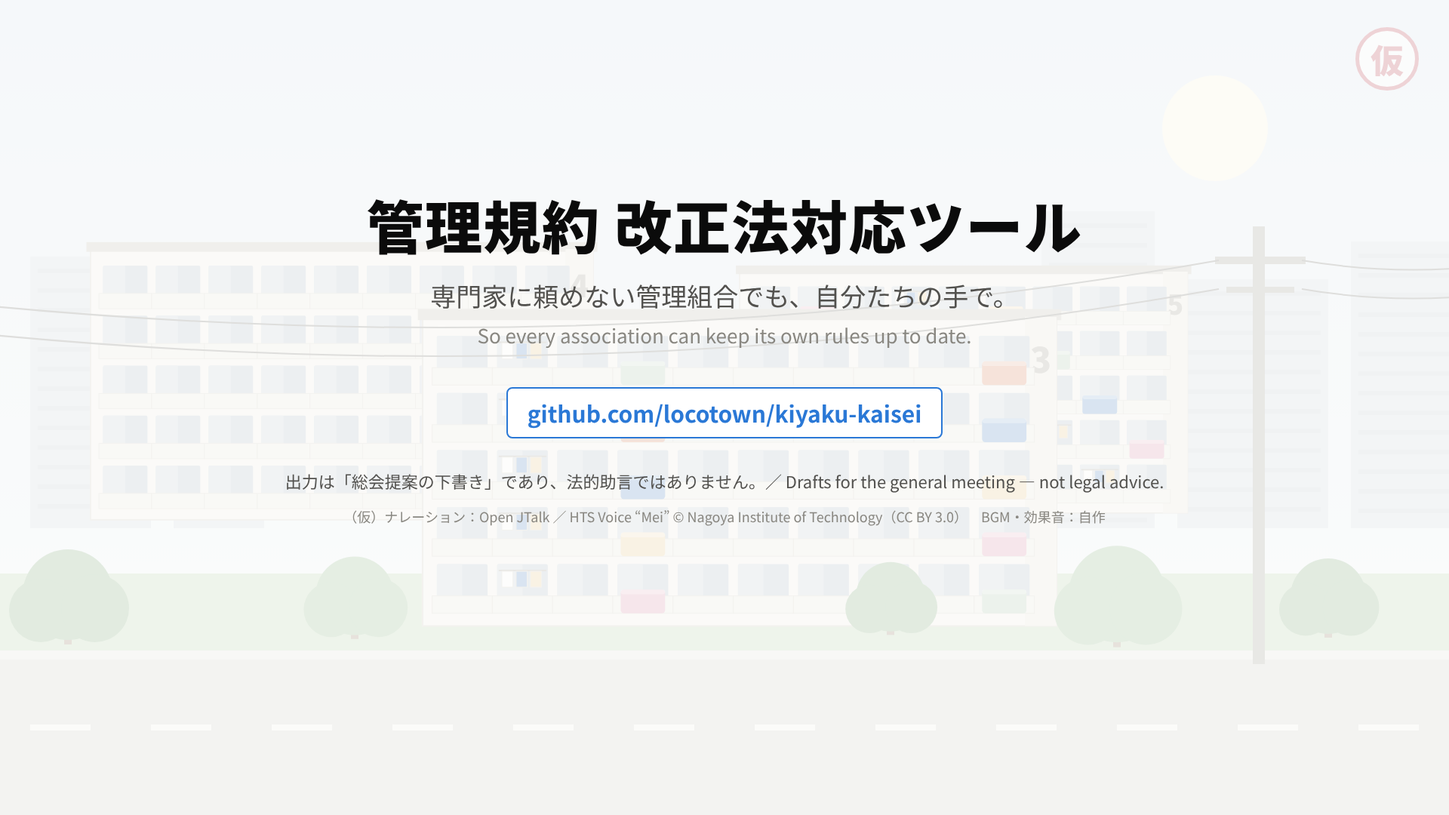
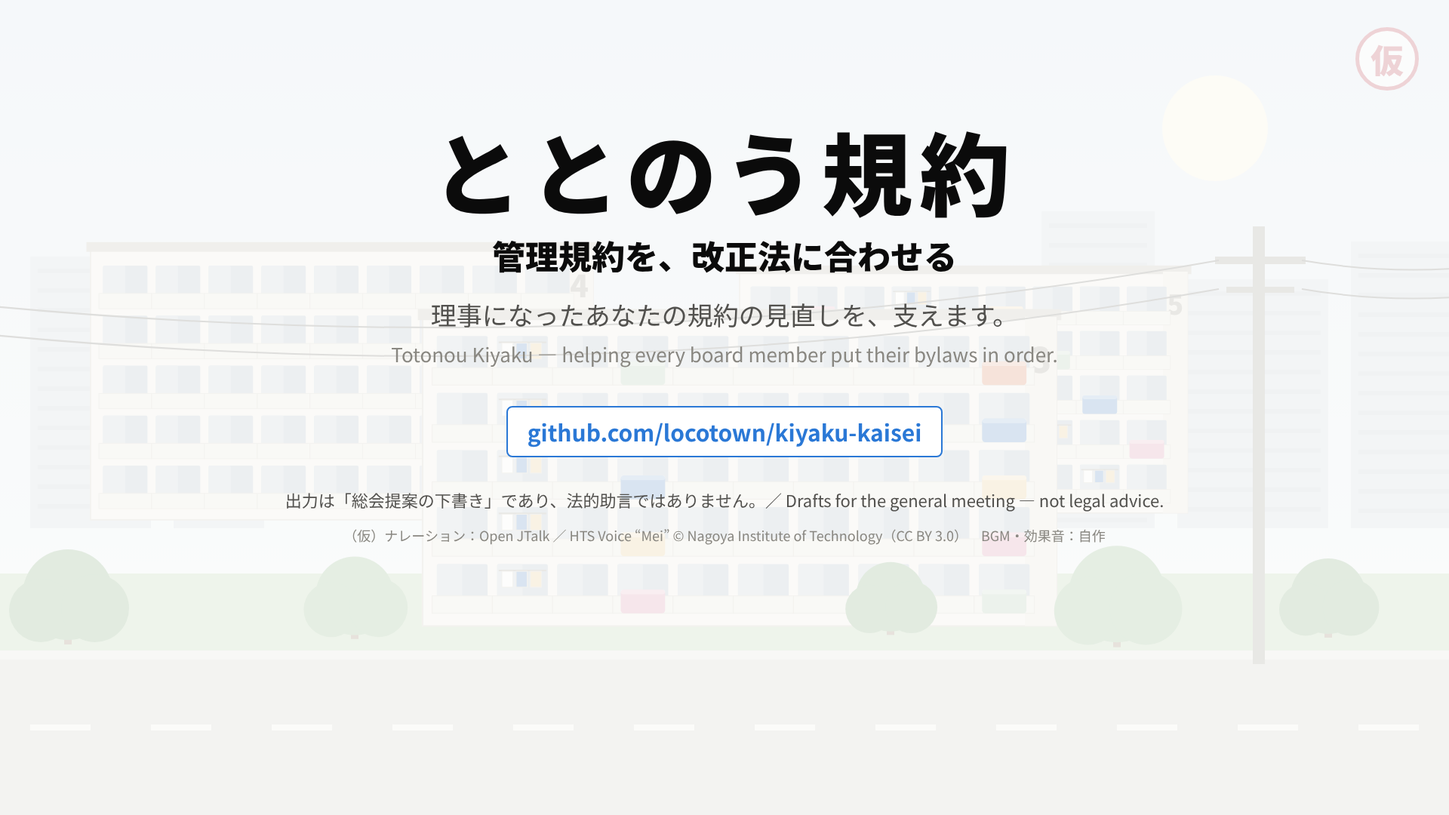
動画のパターンB・Cの台本を「ととのう規約」の名前で、理事・担当者に語りかける形に書き直し。タイトル画面と締めの画面も新しい名前に
Claude-Session: https://claude.ai/code/session_01KMDftsrbgp6KUVXbedew97

Changed region(s): [[0.25, 0.1528, 0.75, 0.4583], [0.1875, 0.5806, 0.8125, 0.6722], [0.3438, 0.4889, 0.6562, 0.55]]

diff --git a/docs/demo/figures/src/09_end.html b/docs/demo/figures/src/09_end.html
@@ -3,8 +3,9 @@
 body { padding: 0; }
 .bg { position: absolute; inset: 0; background: url("../05_danchi.png") center/cover; filter: saturate(.8); }
 .veil { position: absolute; inset: 0; background: rgba(252,252,251,.82); }
-.c { position: absolute; left: 0; right: 0; top: 250px; text-align: center; }
-.c h1 { font-size: 76px; }
+.c { position: absolute; left: 0; right: 0; top: 150px; text-align: center; }
+.c h1 { font-size: 120px; letter-spacing: .08em; }
+.c .sub { font-size: 44px; font-weight: 900; color: var(--ink); margin-top: 6px; }
 .c .tag { font-size: 34px; color: var(--ink2); margin-top: 22px; }
 .c .url { display: inline-block; font-size: 30px; font-weight: 700; color: var(--blue); margin-top: 48px; padding: 10px 26px; border: 2px solid var(--blue); border-radius: 8px; background: #fff; }
 .c .disc { font-size: 22px; color: var(--ink2); margin-top: 40px; }
@@ -12,8 +13,9 @@ body { padding: 0; }
 </style></head><body>
 <div class="bg"></div><div class="veil"></div>
 <div class="c">
-  <h1>管理規約 改正法対応ツール</h1>
-  <div class="tag">専門家に頼めない管理組合でも、自分たちの手で。<br><span style="font-size:26px;color:var(--muted)">So every association can keep its own rules up to date.</span></div>
+  <h1>ととのう規約</h1>
+  <div class="sub">管理規約を、改正法に合わせる</div>
+  <div class="tag">理事になったあなたの規約の見直しを、支えます。<br><span style="font-size:26px;color:var(--muted)">Totonou Kiyaku — helping every board member put their bylaws in order.</span></div>
   <div class="url">github.com/locotown/kiyaku-kaisei</div>
   <div class="disc">出力は「総会提案の下書き」であり、法的助言ではありません。／ Drafts for the general meeting — not legal advice.</div>
   <div class="credit">（仮）ナレーション：Open JTalk ／ HTS Voice “Mei” © Nagoya Institute of Technology（CC BY 3.0）　BGM・効果音：自作</div>

diff --git a/docs/demo/video/subs.js b/docs/demo/video/subs.js
@@ -29,8 +29,8 @@ html,body{margin:0;background:transparent;width:1920px;height:1080px}.t{position
   // パターンB の冒頭：ツールの名前
   await p.setContent(`<!doctype html><html><head><meta charset="utf-8"><style>@font-face{font-family:N;font-weight:900;src:url(${F}900-normal.woff2)}@font-face{font-family:N;font-weight:400;src:url(${F}400-normal.woff2)}
 html,body{margin:0;background:transparent;width:1920px;height:1080px}.t{position:absolute;left:0;right:0;top:300px;margin:0 auto;width:fit-content;background:rgba(255,255,255,.92);border-radius:16px;padding:34px 70px;text-align:center;font-family:N;box-shadow:0 10px 40px rgba(0,0,0,.15)}
-.t b{display:block;font-size:84px;font-weight:900;color:#0b0b0b;letter-spacing:.04em}.t span{display:block;font-size:30px;color:#52514e;margin-top:10px}</style></head>
-<body><div class="t"><b>管理規約 改正法対応ツール</b><span>Update your condominium bylaws to Japan's new law</span></div></body></html>`);
+.t b{display:block;font-size:120px;font-weight:900;color:#0b0b0b;letter-spacing:.08em;line-height:1.1}.t em{display:block;font-style:normal;font-size:44px;font-weight:900;color:#2b2a27;margin-top:14px}.t span{display:block;font-size:28px;color:#52514e;margin-top:10px}</style></head>
+<body><div class="t"><b>ととのう規約</b><em>管理規約を、改正法に合わせる</em><span>Totonou Kiyaku — put your condominium bylaws in order for Japan's new law</span></div></body></html>`);
   await p.evaluate(() => document.fonts.ready); await p.waitForTimeout(150);
   await p.screenshot({ path: path.join(__dirname, SUBS, 'title_b.png'), omitBackground: true });
   await b.close(); console.log('字幕', rows.length);

diff --git a/docs/demo/video/tts.py b/docs/demo/video/tts.py
@@ -7,6 +7,7 @@ H = Path(__file__).parent
 V = H / 'voice/MMDAgent_Example-1.8/Voice/mei/mei_normal.htsvoice'
 RATE = float(sys.argv[1]) if len(sys.argv) > 1 else 1.1
 READ = [  # 読み上げで誤読しやすい語の読み
+    ('ととのう規約', 'ととのうきやく'), ('二段構え', 'にだんがまえ'), ('山本', 'やまもと'),
     ('1,600万人', '千六百万人'), ('10人に1人', '十人に一人'), ('4割', 'よんわり'), ('2026年4月', '二千二十六年四月'),
     ('何千万円', 'なんぜんまんえん'), ('Word', 'ワード'), ('Claude', 'クロード'), ('Web', 'ウェブ'), ('AI', 'エーアイ'),
     ('11の基準', 'じゅういちの基準'), ('3種類', 'さんしゅるい'), ('約半数', 'やくはんすう'), ('新旧対照表', 'しんきゅうたいしょうひょう'),

diff --git a/docs/demo/DEMO_B.md b/docs/demo/DEMO_B.md
@@ -16,51 +16,56 @@
 ## 全体の流れ（3:00）
 | 時間 | 場面 | 伝えること |
 | --- | --- | --- |
-| 0:00–0:15 | ① 何を作ったか | 規約を新しい法律に合わせて直すツール。読み込むと、直す箇所・改定案・住民への説明・最新の規約まで作る |
-| 0:15–0:42 | ② なぜ必要か | 住民が自分で管理する。法律が変わった。規約は追いついていない。専門家を使えない組合も多い |
-| 0:42–2:22 | ③ 使ってみる | 点検 → 指摘と根拠 → 改定案と採点役 → 理事会で選ぶ → 住民向け説明 → 総会後の最新規約 |
+| 0:00–0:16 | ① 何を作ったか | 規約を新しい法律に合わせて直すツール。読み込むと、直す箇所・改定案・住民への説明・最新の規約まで作る |
+| 0:16–0:47 | ② なぜ必要か | 住民が自分で管理する。法律が変わった。規約は追いついていない。専門家を使えない組合も多い |
+| 0:47–2:22 | ③ 使ってみる | 点検 → 指摘と根拠 → 改定案と採点役 → 理事会で選ぶ → 住民向け説明 → 総会後の最新規約 |
 | 2:22–2:50 | ④ 信頼できる理由 | 判断は Claude、正確さはプログラム、決めるのは人。国の改正内容で測った。間違いやすい点を次に活かす |
-| 2:50–3:00 | ⑤ 締め | 専門家に頼めない組合でも、自分たちの手で |
+| 2:50–3:00 | ⑤ 締め | 理事になったあなたの規約の見直しを、ととのう規約が支える |
 
 ## 場面ごとの台本
-### ① 何を作ったか（0:00–0:15）
-| 時間 | 画面 | ナレーション | 英語の字幕 |
-| --- | --- | --- | --- |
-| 0:00 | 団地の景色に、ツールの名前「管理規約 改正法対応ツール」 | マンションの管理規約を、新しい法律に合わせて見直す。その作業を、住民だけで進められるようにするツールです。 | A tool that helps residents update their condominium bylaws to Japan's new law — on their own. |
-| 0:07 | 画面の早回し：指摘の一覧 → 新旧対照表 → 住民向けの説明 → 最新の規約 | 今の規約を読み込むと、直すべき箇所を根拠とともに示し、改定案、住民への説明、総会後の最新の規約までを作ります。 | Upload the bylaws. It finds what must change, with legal citations, and drafts the amendments, a plain explanation for residents, and the updated rulebook. |
+11/3 夜：名前「ととのう規約」で書き直した。語りかける相手は、理事や規約見直しの担当になった住民（専門家ではない）。
+その人の気がかり（何をどこまで直すか・時間・専門家に頼む予算・総会で揉めないか）に、場面ごとに答える。
+約束しすぎない（「可決させる」「専門家が要らない」とは言わない。作るのは総会に出す資料の下書き）。1文は字幕の2行目が短くならないよう44字以内。
 
-### ② なぜ必要か（0:15–0:42）
+### ① 何を作ったか（0:00–0:16）
 | 時間 | 画面 | ナレーション | 英語の字幕 |
 | --- | --- | --- | --- |
-| 0:15 | 集会室の総会（イラスト） | 日本のマンションでは、住民がつくる管理組合が建物を管理し、ルールも総会で決めます。 | In Japan, each condominium is governed by its residents' association, which votes on the rules at general meetings. |
-| 0:21 | 数字（1,600万人・4人に1人・約3倍） | 住んでいるのは、約1,600万人。住む人の高齢化と建物の老朽化が進むなか、2026年4月、法律が改正されました。 | About 16 million people live in them. As residents and buildings age, the law changed in April 2026. |
-| 0:29 | 規約の準拠状況のグラフ | ところが、国が示す標準の最新版に沿っている規約は4割ほど。古い規約のままだと、総会の決議があとから争われるおそれがあります。 | But only about 4 in 10 bylaws follow the latest standard. Under outdated rules, decisions can be challenged later. |
-| 0:37 | 規約の冊子と手元 | 外部の専門家を活用していない組合は、半数を超えます。私自身も、規約の見直しを担当しています。 | Over half of associations don't use outside experts. I'm on my own building's rules committee. |
+| 0:00 | 団地の景色に、名前「ととのう規約」と説明の一行 | 理事になって、規約を新しい法律に合わせてと頼まれたら。「ととのう規約」があります。 | Asked to update your building's bylaws to the new law? Meet Totonou Kiyaku. |
+| 0:07 | 画面の早回し：指摘の一覧 → 新旧対照表 → 住民向けの説明 → 最新の規約 | 今の規約を読み込むと、直す箇所と、改定案や住民への説明の下書きがそろいます。 | Upload your bylaws and get what must change, plus drafts of the amendments and a resident explanation. |
 
-### ③ 使ってみる（0:42–2:22）
+### ② なぜ必要か（0:16–0:47）
 | 時間 | 画面 | ナレーション | 英語の字幕 |
 | --- | --- | --- | --- |
-| 0:42 | トップ画面。Word の規約集を読み込む | 今の規約を、Word のまま読み込みます。 | Upload the current bylaws as a Word file. |
-| 0:48 | 点検の進み具合（早送り） | AI が条文を一つずつ読み、国の標準管理規約と、改正後の法律に照らし合わせます。 | Claude pulls each article and checks it against the national standard and the amended law. |
-| 0:56 | 指摘の一覧。必須の指摘を拡大 | 新しい法律と食い違い、効力を失うおそれがある箇所は「必須」として示し、必ず根拠の条文を添えます。 | "Required" items conflict with the new law. Every finding cites the exact legal article. |
-| 1:05 | 根拠の条文が開く。まとめて判断 | どこまで直すかは、委員会が決めます。 | The committee decides what to adopt. |
-| 1:11 | 改定案の作成（早送り）。採点役の確認 | 改定案づくりは、書く AI と、それを確かめる別の AI に分けました。基準を満たすまで、書き直させます。 | One AI drafts; a separate AI grades it against 11 criteria and sends it back until it passes. |
-| 1:23 | 新旧対照表 | できあがるのは、総会資料の形の新旧対照表です。 | The result is a side-by-side comparison table, ready for the meeting. |
-| 1:33 | 理事会の欄。組合が選ぶ点を選ぶ | Web 会議を使うかどうかなど、組合が決めるべき点は、AI が勝手に決めません。理事会で選びます。 | Choices like allowing online meetings are left to the board — not the AI. |
-| 1:45 | 住民向けの説明 | 住民には、法律の言葉ではなく、暮らしの言葉で説明します。 | For residents, it explains the changes in everyday words. |
-| 1:57 | 総会の結果を記録。「可決」の判子 | 総会で可決したら、結果を記録します。 | After the general meeting, record the results. |
-| 2:04 | 最新の規約（Word） | 改正を反映した最新の規約を、附則まで付けて出力します。ここは AI を使わず、プログラムで正確に組み立てます。 | It produces the updated rulebook — assembled exactly, without AI. |
+| 0:16 | 集会室の総会（06_soukai） | マンションのルールは住民の総会で決め、その準備は、理事になった住民が担います。 | Condo rules are voted on at residents' meetings — and prepared by residents serving on the board. |
+| 0:23 | 数字（01_japan） | 住む人の高齢化と建物の老朽化を受けて、2026年4月、法律が改正されました。 | As residents and buildings age, Japan revised the law in April 2026. |
+| 0:30 | 規約の準拠状況（02_kiyaku） | 最新の標準に沿う規約は4割ほど。古いままでは、総会の決議が争われるおそれがあります。 | Only about 4 in 10 bylaws follow the latest standard. Outdated rules can put decisions at risk. |
+| 0:39 | 悩む担当者（11_rijicho） | 外部の専門家を活用していない組合は半数を超え、見直しは担当者の肩にかかります。 | Over half of associations don't use outside experts, so the work falls on volunteers. |
+
+### ③ 使ってみる（0:47–2:22）
+| 時間 | 画面 | ナレーション | 英語の字幕 |
+| --- | --- | --- | --- |
+| 0:47 | トップ画面。Word の規約集を読み込む | 使い方は、今の規約を Word のまま読み込むだけです。 | Just upload your current bylaws as a Word file. |
+| 0:53 | 点検の進み具合（早送り） | AI が条文を一つずつ読み、国の標準管理規約と、改正後の法律に照らし合わせます。 | Claude reads each article and checks it against the national model bylaws and the amended law. |
+| 1:02 | 指摘の一覧。必須の指摘 | 法律と食い違う箇所は「必須」として、根拠の条文と一緒に示します。 | Conflicts with the new law are marked "Required", each with the exact legal article. |
+| 1:10 | 根拠の条文・まとめて判断 | どこまで直すかを決めるのは、委員会のみなさんです。まとめて判断もできます。 | Your committee decides what to adopt — one by one or all at once. |
+| 1:18 | 改定案の作成（早送り） | 改定案は、書く AI と確かめる AI の二段構え。基準を満たすまで書き直します。 | One AI drafts; a separate AI checks the draft and sends it back until it meets the criteria. |
+| 1:30 | 新旧対照表 | できた新旧対照表は、そのまま総会資料の下書きになります。 | The comparison table becomes the draft for your general meeting. |
+| 1:40 | 理事会の欄。組合が選ぶ点 | Web 会議を使うかどうかなど、組合で決めるべき点は、AI が勝手に決めません。 | Choices like allowing online meetings stay with your board — not the AI. |
+| 1:52 | 住民向けの説明 | 住民向けの説明も、法律の言葉ではなく、暮らしの言葉で用意します。 | The explanation for residents is written in everyday words, not legal jargon. |
+| 2:03 | 総会の結果を記録。「可決」の判子 | 総会で可決したら、結果を記録します。 | After the general meeting, record the result. |
+| 2:10 | 最新の規約（Word） | 改正を反映した最新の規約も、附則まで付けて、プログラムで正確に組み立てます。 | The updated rulebook is assembled exactly by code — supplementary provisions included. |
 
 ### ④ 信頼できる理由（2:22–2:50）
 | 時間 | 画面 | ナレーション | 英語の字幕 |
 | --- | --- | --- | --- |
-| 2:22 | 構成図 | 判断は Claude に、正確さが要るところはプログラムに。決めるのは人です。 | Judgment goes to Claude, exactness to code — and people make the decisions. |
-| 2:30 | 評価の図 | 国が公表した改正内容で測ったところ、法律上必須の箇所に見落としはありませんでした。確かめる側の AI の指摘も集めて、次の改定案づくりに活かしています。 | Measured against the government's revision: no required change missed. The grader's feedback is collected to improve the next draft. |
+| 2:22 | 構成図（03_architecture） | 判断は Claude に、正確さが要るところはプログラムに。決めるのは人です。 | Judgment goes to Claude, exactness to code — and people make the decisions. |
+| 2:31 | 評価（04_eval） | 国が公表した改正内容で測ったところ、法律上必須の箇所に見落としはありませんでした。 | Measured against the government's revision: no legally required change was missed. |
+| 2:40 | 改定案の確認結果（採点役のチェックリスト） | 確かめる AI の指摘は集めて、次の改定案づくりに活かしています。 | The checker's feedback is collected to improve the next draft. |
 
 ### ⑤ 締め（2:50–3:00）
 | 時間 | 画面 | ナレーション | 英語の字幕 |
 | --- | --- | --- | --- |
-| 2:50 | 締めの画面 | 専門家に頼めない管理組合でも、自分たちの手で、規約を新しい法律に合わせられるように。 | So that every association — even without experts — can keep its own rules up to date. |
+| 2:50 | 締めの画面（09_end） | 理事になったあなたの規約の見直しを、ととのう規約が支えます。 | Totonou Kiyaku — helping every board member put their bylaws in order. |
 
 ## 数字の確認
 - 「外部の専門家を活用していない組合は、半数を超えます」：国交省「令和5年度マンション総合調査」管18①で、外部専門家を「活用していない」が 53.3%（docs/DEMO.md 付録A）。「使ったことがない」とは言わない（調査は今の活用状況を聞いている）

diff --git a/docs/demo/DEMO_C.md b/docs/demo/DEMO_C.md
@@ -19,53 +19,57 @@
 | 時間 | 場面 | 伝えること |
 | --- | --- | --- |
 | 0:00–0:26 | ① 困りごと | 法律が変わり、規約の見直しを求められた。でも、どこを直せばいいか分からない。古いままでは決議が争われるおそれ |
-| 0:26–0:36 | ② 出会い | このツールで、直す箇所・改定案・住民への説明まで作れる |
-| 0:36–2:05 | ③ 山本さんが使う | 読み込み → 点検 → 指摘と根拠 → 理事会で相談 → 改定案と採点役 → 新旧対照表 → 選ぶ点 → 住民向け説明（回覧板） → 総会で可決 → 最新の規約 |
-| 2:05–2:22 | ④ 山本さんだけではない | 約1,600万人。最新の標準に沿った規約は4割ほど |
-| 2:22–2:48 | ⑤ 信頼できる理由 | 判断は Claude、正確さはプログラム、決めるのは人。国の改正内容で測った |
-| 2:48–3:00 | ⑥ 締め | 専門家に頼めない組合でも、自分たちの手で |
+| 0:26–0:38 | ② 出会い | 「ととのう規約」で、直す箇所・改定案・住民への説明の下書きまで作れる |
+| 0:38–2:05 | ③ 山本さんが使う | 読み込み → 点検 → 指摘と根拠 → 理事会で相談 → 改定案と採点役 → 新旧対照表 → 選ぶ点 → 住民向け説明（回覧板） → 総会で可決 → 最新の規約 |
+| 2:05–2:21 | ④ 山本さんだけではない | 約1,600万人。最新の標準に沿った規約は4割ほど |
+| 2:21–2:50 | ⑤ 信頼できる理由 | 判断は Claude、正確さはプログラム、決めるのは人。国の改正内容で測った |
+| 2:50–3:00 | ⑥ 締め | 専門家に頼めない組合でも、自分たちの手で |
 
 ## 場面ごとの台本
+11/3 夜：名前「ととのう規約」で書き直した。物語の主人公（架空の理事長）を、見る理事・担当者が自分と重ねられるようにする。
+約束しすぎない（作るのは総会に出す資料の下書き）。1文は44字以内。
+
 ### ① 困りごと（0:00–0:26）
 | 時間 | 画面 | ナレーション | 英語の字幕 |
 | --- | --- | --- | --- |
-| 0:00 | 掲示板のお知らせ（10_keijiban） | 理事長の山本さんのもとに、知らせが届きました。「法律の改正に合わせて、管理規約を見直してください」。 | Yamamoto, chair of a condo association, gets a notice: "The law has changed. Please review your bylaws." |
-| 0:09 | 食卓の規約集と法律（11_rijicho） | 手元には、分厚い規約集と、難しい法律の条文。どこをどう直せばいいのか、見当もつきません。 | On the table: a thick rulebook and dense legal text. Where to even begin? |
-| 0:17 | 同じ場面（寄る） | でも、古い規約のまま総会を開けば、大切な決議が、あとから争われるおそれがあります。 | But under outdated bylaws, even major decisions could be challenged later. |
+| 0:00 | 掲示板のお知らせ（10_keijiban） | 理事長の山本さんのもとに、知らせが届きました。「法律の改正に合わせて、規約の見直しを」。 | Yamamoto, chair of a condo board, gets a notice: "The law has changed. Please review your bylaws." |
+| 0:09 | 食卓の規約集と法律（11_rijicho） | 手元には、分厚い規約集と、難しい法律の条文。どこをどう直せばいいのか、分かりません。 | On the table: a thick rulebook and dense legal text. Where to even begin? |
+| 0:17 | 同じ場面（寄る） | 専門家に頼む予算もない。でも、古い規約のままでは、総会の決議が争われるおそれがあります。 | No budget for experts — yet outdated bylaws could put meeting decisions at risk. |
 
-### ② 出会い（0:26–0:36）
+### ② 出会い（0:26–0:38）
 | 時間 | 画面 | ナレーション | 英語の字幕 |
 | --- | --- | --- | --- |
-| 0:26 | ツールの名前と、成果物の早回し | そこで使ったのが、このツールです。今の規約を読み込むと、直すべき箇所を根拠とともに示し、改定案と住民への説明まで作ります。 | That's where this tool comes in. Upload the bylaws: it shows what must change, with legal citations, and drafts the amendments and an explanation for residents. |
+| 0:26 | 団地の景色に、名前「ととのう規約」と説明の一行 | そこで山本さんが使ったのが、「ととのう規約」です。 | That's when Yamamoto found Totonou Kiyaku. |
+| 0:31 | 成果物の早回し | 今の規約を読み込むと、直す箇所、改定案、住民への説明の下書きを作ります。 | Upload the bylaws: it shows what must change and drafts the amendments and a resident explanation. |
 
-### ③ 山本さんが使う（0:36–2:05）
+### ③ 山本さんが使う（0:38–2:05）
 | 時間 | 画面 | ナレーション | 英語の字幕 |
 | --- | --- | --- | --- |
-| 0:36 | トップ画面。Word の規約集を読み込む | 山本さんは、今の規約を Word のまま読み込みました。 | Yamamoto uploads the current bylaws as a Word file. |
-| 0:42 | 点検の進み具合（早送り） | AI が条文を一つずつ読み、国の標準管理規約と、改正後の法律に照らし合わせます。 | Claude reads each article and checks it against the national model bylaws and the amended law. |
-| 0:50 | 指摘の一覧。必須の指摘 | 新しい法律と食い違う箇所は「必須」。どの指摘にも、根拠の条文が付いています。 | Conflicts with the new law are marked "Required" — each with the exact legal article. |
-| 0:58 | 根拠の条文・まとめて判断 | どこまで直すかは、理事会のメンバーと相談して決めました。 | Which changes to adopt is decided together with the board. |
-| 1:05 | 改定案の作成（早送り）・採点役の確認 | 改定案づくりは、書く AI と、それを確かめる別の AI に分けました。基準を満たすまで、書き直させます。 | One AI drafts the amendments; a separate AI checks them and sends them back until they pass. |
-| 1:15 | 新旧対照表 | できあがった新旧対照表は、そのまま総会の資料に使えます。 | The comparison table is ready for the general meeting. |
-| 1:24 | 理事会の欄。組合が選ぶ点 | Web 会議を使うかどうかなど、組合が決めるべき点は、理事会で選びました。 | Choices like allowing online meetings were made by the board — not by the AI. |
-| 1:34 | 住民向けの説明 | 住民への説明は、法律の言葉ではなく、暮らしの言葉で書かれています。 | The explanation for residents uses everyday words, not legal jargon. |
-| 1:42 | 回覧板（12_kairanban） | 山本さんは、それを回覧板で、全ての家に回しました。 | Yamamoto passes it around on the building's circular board. |
-| 1:48 | 総会（06_soukai）に「可決」の判子 | そして総会。規約の改定は、可決されました。 | Then, the general meeting. The amendment passes. |
-| 1:55 | 最新の規約（Word） | 改正を反映した最新の規約も、附則まで付けて出力します。ここは AI を使わず、プログラムで正確に組み立てます。 | The updated rulebook is produced too — assembled exactly by code, without AI. |
+| 0:38 | トップ画面。Word の規約集を読み込む | 山本さんは、今の規約を Word のまま読み込みました。 | Yamamoto uploads the current bylaws as a Word file. |
+| 0:44 | 点検の進み具合（早送り） | AI が条文を一つずつ読み、国の標準管理規約と、改正後の法律に照らし合わせます。 | Claude reads each article and checks it against the national model bylaws and the amended law. |
+| 0:52 | 指摘の一覧。必須の指摘 | 法律と食い違う箇所は「必須」。どの指摘にも、根拠の条文が付いています。 | Conflicts with the new law are marked "Required" — each with the exact legal article. |
+| 1:00 | 根拠の条文・まとめて判断 | どこまで直すかは、理事会のメンバーと相談して決めました。 | What to change was decided together with the board. |
+| 1:07 | 改定案の作成（早送り） | 改定案は、書く AI と確かめる AI の二段構え。基準を満たすまで書き直します。 | One AI drafts; a separate AI checks the draft and sends it back until it meets the criteria. |
+| 1:17 | 新旧対照表 | できた新旧対照表は、そのまま総会資料の下書きになりました。 | The comparison table became the draft for the general meeting. |
+| 1:26 | 理事会の欄。組合が選ぶ点 | Web 会議を使うかどうかなど、組合で決めるべき点は、理事会で選びました。 | Choices like allowing online meetings were made by the board — not the AI. |
+| 1:35 | 住民向けの説明 | 住民への説明は、法律の言葉ではなく、暮らしの言葉で書かれています。 | The explanation for residents uses everyday words, not legal jargon. |
+| 1:43 | 回覧板（12_kairanban） | 山本さんは、それを回覧板で、全ての家に回しました。 | Yamamoto passes it around on the building's circular board. |
+| 1:49 | 総会（06_soukai）に「可決」の判子 | そして総会。規約の改定は、可決されました。 | Then, the general meeting. The amendment passes. |
+| 1:56 | 最新の規約（Word） | 最新の規約も、附則まで付けて、プログラムで正確に組み立てます。 | The updated rulebook is assembled exactly by code. |
 
-### ④ 山本さんだけではない（2:05–2:22）
+### ④ 山本さんだけではない（2:05–2:21）
 | 時間 | 画面 | ナレーション | 英語の字幕 |
 | --- | --- | --- | --- |
 | 2:05 | 数字（01_japan） | これは、山本さんだけの話ではありません。分譲マンションに住む人は、約1,600万人。 | Yamamoto isn't alone. About 16 million people in Japan live in condominiums. |
 | 2:13 | 規約の準拠状況（02_kiyaku） | 国が示す標準の最新版に沿っている規約は、4割ほどにとどまります。 | Only about 4 in 10 bylaws follow the latest national standard. |
 
-### ⑤ 信頼できる理由（2:22–2:48）
+### ⑤ 信頼できる理由（2:21–2:50）
 | 時間 | 画面 | ナレーション | 英語の字幕 |
 | --- | --- | --- | --- |
-| 2:22 | 構成図（03_architecture） | 判断が要るところは Claude に、正確さが要るところはプログラムに。決めるのは、人です。 | Judgment goes to Claude, exactness to code — and people make the decisions. |
+| 2:21 | 構成図（03_architecture） | 判断は Claude に、正確さが要るところはプログラムに。決めるのは人です。 | Judgment goes to Claude, exactness to code — and people make the decisions. |
 | 2:34 | 評価（04_eval） | 国が公表した改正内容で測ったところ、法律上必須の箇所に見落としはありませんでした。 | Measured against the government's revision: no legally required change was missed. |
 
-### ⑥ 締め（2:48–3:00）
+### ⑥ 締め（2:50–3:00）
 | 時間 | 画面 | ナレーション | 英語の字幕 |
 | --- | --- | --- | --- |
-| 2:48 | 締めの画面（09_end） | 専門家に頼めない管理組合でも、自分たちの手で、規約を新しい法律に合わせられるように。 | So that every association — even without experts — can keep its own rules up to date. |
+| 2:50 | 締めの画面（09_end） | 理事になったすべての人の規約の見直しを、ととのう規約が支えます。 | Totonou Kiyaku — helping every board member put their bylaws in order. |
